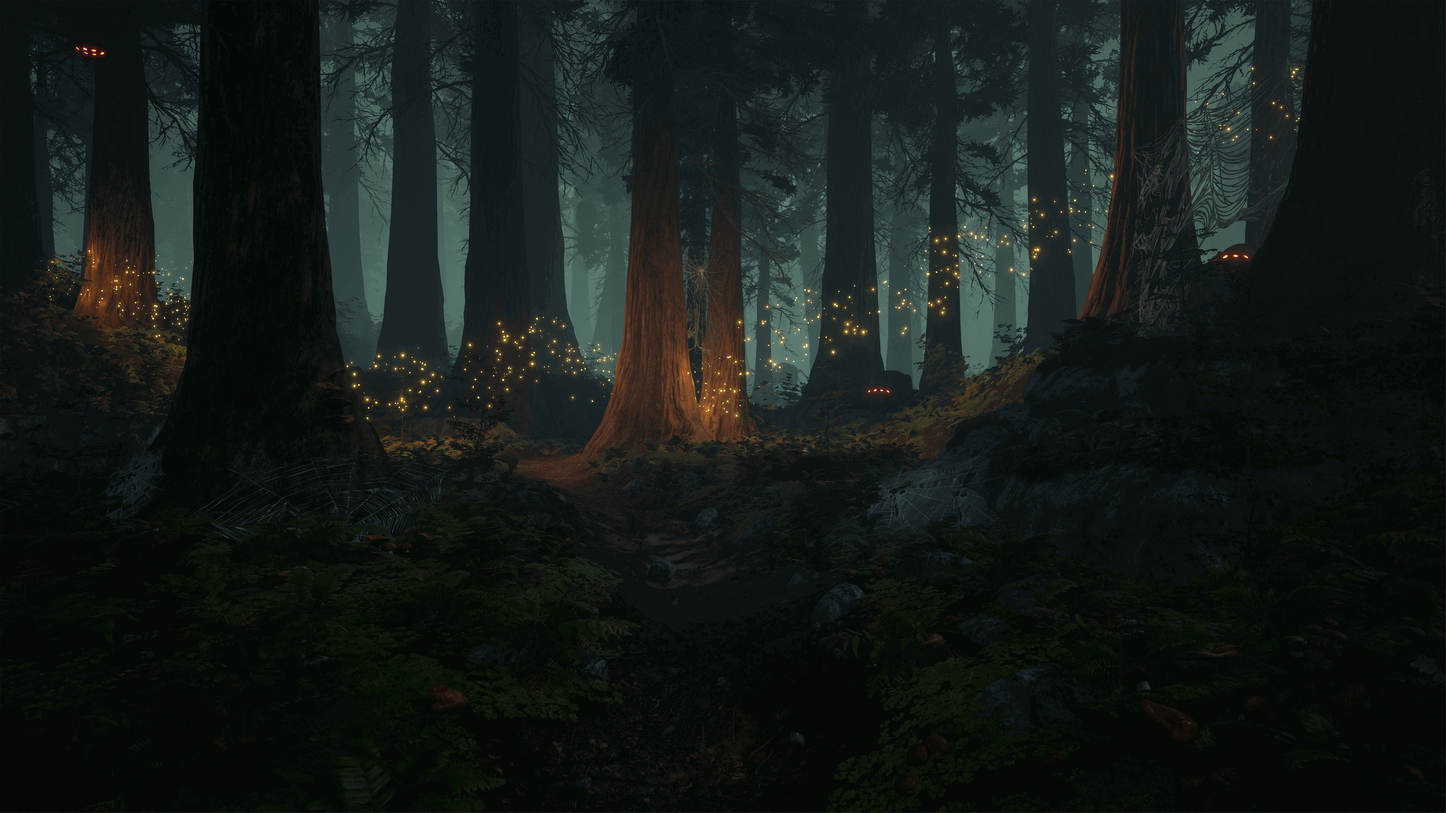
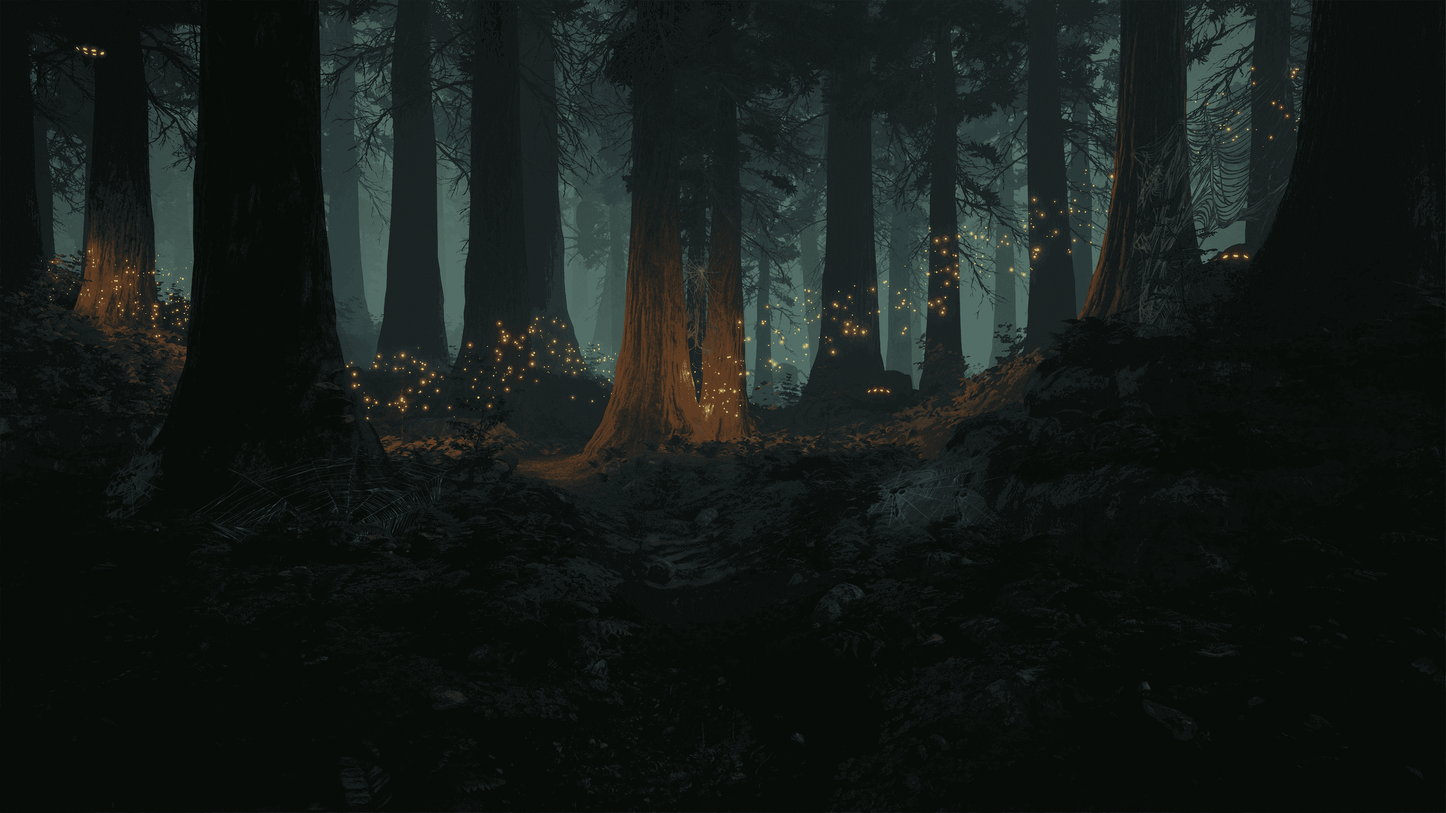
Минимизировал изображения
и перевел в формат webp

diff --git a/index.html b/index.html
@@ -23,12 +23,12 @@
           <div class="layers__caption">Welcome to Parallax</div>
           <div class="layers__title">Fairy Forest</div>
         </div>
-        <div class="layer layers__base" style="background-image: url(img/layer-base.png);"></div>
-        <div class="layer layers__middle" style="background-image: url(img/layer-middle.png);"></div>
-        <div class="layer layers__front" style="background-image: url(img/layer-front.png);"></div>
+        <div class="layer layers__base" style="background-image: url(img/layer-base.webp);"></div>
+        <div class="layer layers__middle" style="background-image: url(img/layer-middle.webp);"></div>
+        <div class="layer layers__front" style="background-image: url(img/layer-front.webp);"></div>
       </div>
     </header>
-    <article class="main__article" style="background-image: url(img/dungeon.jpg);">
+    <article class="main__article" style="background-image: url(img/dungeon.webp);">
       <div class="main__article-content">
         <h2 class="main__article-header">To be Continued</h2>
         <p class="main__article-paragraph">Lorem ipsum dolor sit amet consectetur adipisicing elit. Facere soluta esse neque atque voluptates eaque

diff --git a/css/sass/main.scss b/css/sass/main.scss
@@ -41,7 +41,7 @@ body{
       z-index: 100;
       width: 100%;
       height: calc(var(--index) * 10);
-      background-image: url(../img/ground.png);
+      background-image: url(../img/ground.webp);
       background-size: cover;
       background-repeat: no-repeat;
       background-position: center;

diff --git a/css/main.css b/css/main.css
@@ -42,7 +42,7 @@ body {
   z-index: 100;
   width: 100%;
   height: calc(var(--index) * 10);
-  background-image: url(../img/ground.png);
+  background-image: url(../img/ground.webp);
   background-size: cover;
   background-repeat: no-repeat;
   background-position: center;
